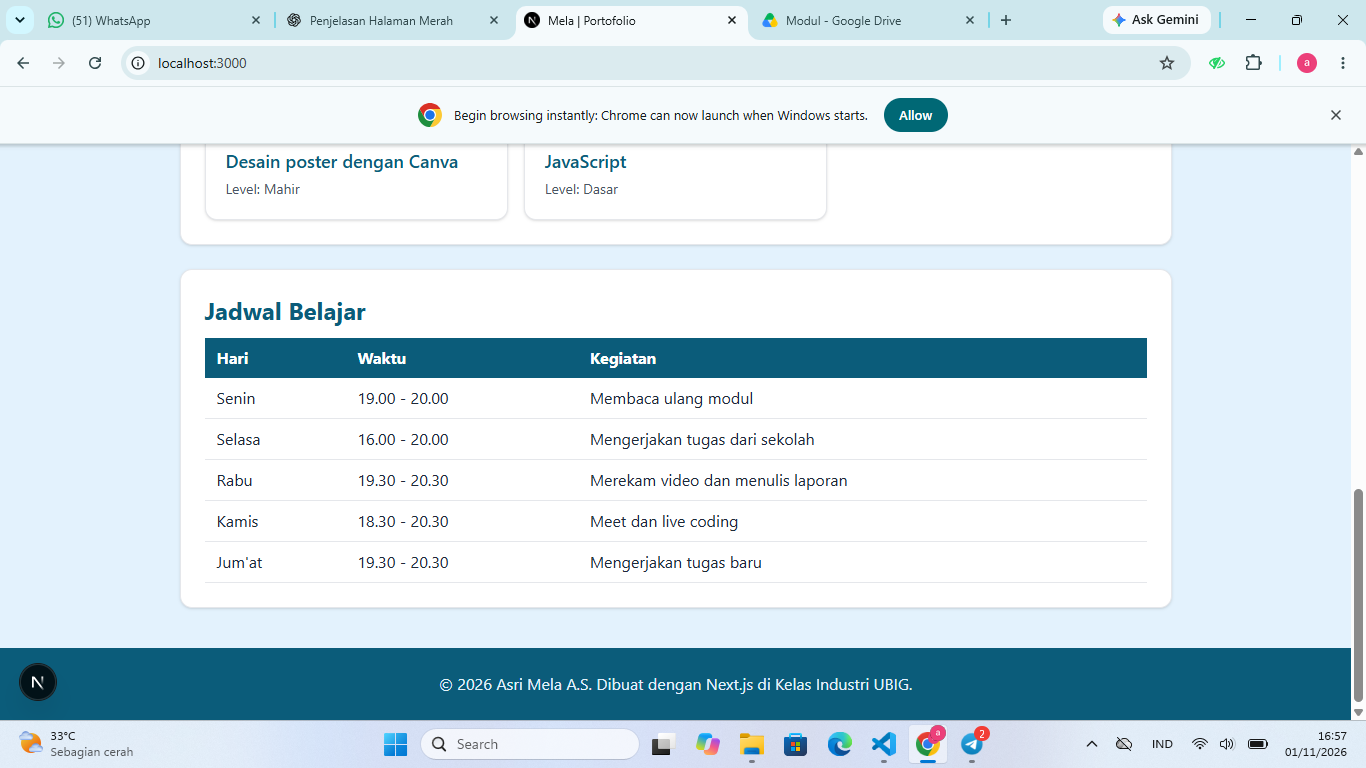
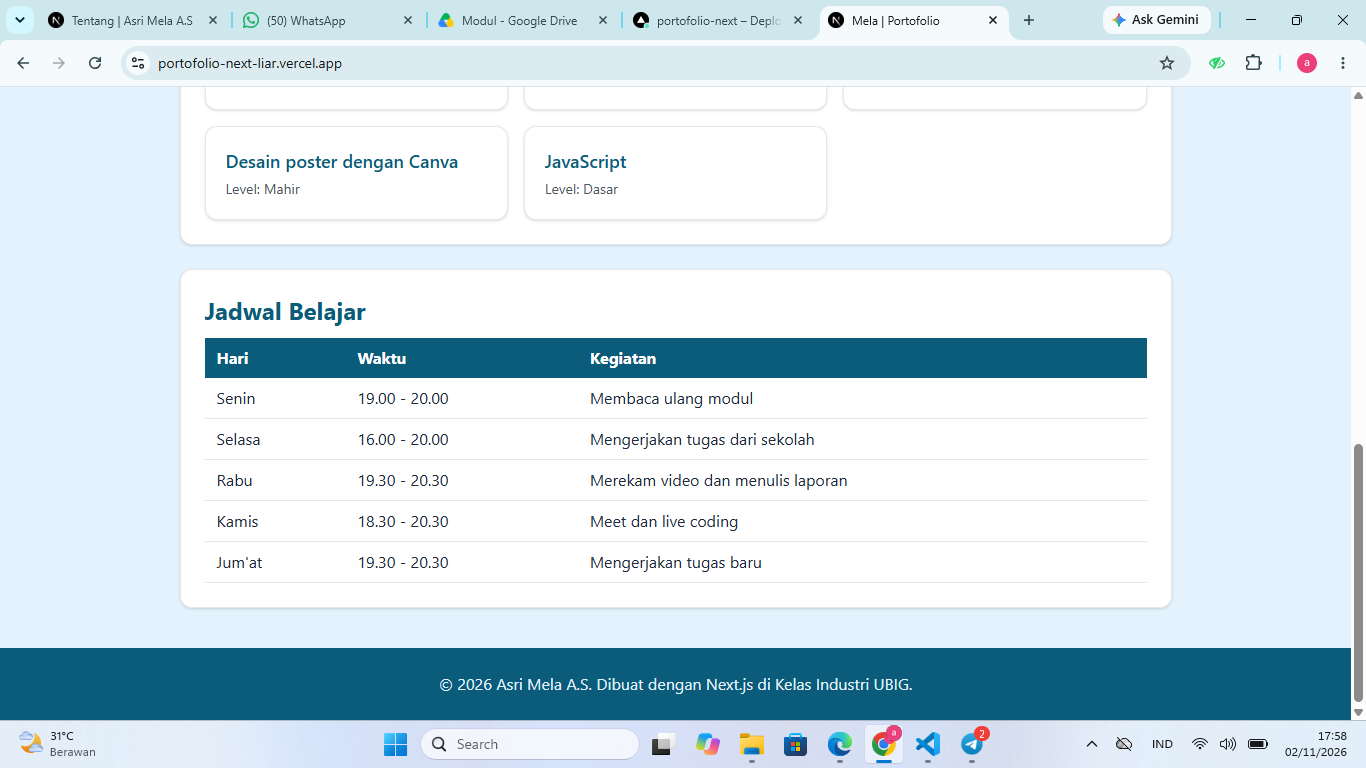
feat: lengkapi halaman tentang dan kontak serta menu aktif

diff --git a/src/app/kontak/page.js b/src/app/kontak/page.js
@@ -1,8 +1,133 @@
+export const metadata = {
+  title: "Kontak",
+  description:
+    "Hubungi Asri Mela Aldian Syah melalui form kontak, email, atau GitHub.",
+};
+
 export default function Kontak() {
-    return (
-        <main className="mx-auto max-w-5xl px-4 py-10">
-            <h1 className="text-3xl font-bold text-utama md:text-4xl">Hubungi Saya</h1>
-            <p className="mt-3 text-lg text-gray-700">Halaman ini akan berisi form kontak.</p>
-        </main>
-    );
+  return (
+    <main className="mx-auto max-w-5xl px-4 py-10">
+      <h1 className="text-3xl font-bold text-utama md:text-4xl">Hubungi Saya</h1>
+      <p className="mt-3 text-lg text-gray-700">
+        Punya pertanyaan atau ingin bekerja sama? Isi form berikut.
+      </p>
+
+      <div className="mt-8 grid gap-6 md:grid-cols-3">
+        <div className="rounded-xl border border-gray-200 bg-white p-6 shadow-sm md:col-span-2">
+          <form className="space-y-4">
+            <div>
+              <label htmlFor="nama" className="block font-semibold">
+                Nama lengkap
+              </label>
+              <input
+                type="text"
+                id="nama"
+                name="nama"
+                placeholder="Contoh: Budi Santoso"
+                required
+                className="mt-1 w-full rounded-lg border border-gray-300 bg-white p-2"
+              />
+            </div>
+
+            <div>
+              <label htmlFor="email" className="block font-semibold">
+                Email
+              </label>
+              <input
+                type="email"
+                id="email"
+                name="email"
+                placeholder="nama@gmail.com"
+                required
+                className="mt-1 w-full rounded-lg border border-gray-300 bg-white p-2"
+              />
+            </div>
+
+            <div>
+              <label htmlFor="hp" className="block font-semibold">
+                Nomor HP
+              </label>
+              <input
+                type="tel"
+                id="hp"
+                name="hp"
+                placeholder="081234567890"
+                className="mt-1 w-full rounded-lg border border-gray-300 bg-white p-2"
+              />
+            </div>
+
+            <div>
+              <label htmlFor="keperluan" className="block font-semibold">
+                Keperluan
+              </label>
+              <select
+                id="keperluan"
+                name="keperluan"
+                required
+                defaultValue=""
+                className="mt-1 w-full rounded-lg border border-gray-300 bg-white p-2"
+              >
+                <option value="" disabled>
+                  -- Pilih keperluan --
+                </option>
+                <option value="tanya">Bertanya</option>
+                <option value="kerjasama">Kerja sama</option>
+                <option value="lainnya">Lainnya</option>
+              </select>
+            </div>
+
+            <div>
+              <label htmlFor="pesan" className="block font-semibold">
+                Pesan
+              </label>
+              <textarea
+                id="pesan"
+                name="pesan"
+                rows={5}
+                maxLength={300}
+                placeholder="Tulis pesanmu di sini"
+                required
+                className="mt-1 w-full rounded-lg border border-gray-300 bg-white p-2"
+              />
+            </div>
+
+            <button
+              type="submit"
+              className="rounded-lg bg-aksen px-5 py-2 font-semibold text-white"
+            >
+              Kirim Pesan
+            </button>
+            <p className="text-sm text-gray-600">
+              Form ini belum mengirim pesan. Pengiriman pesan diaktifkan di
+              Minggu 15.
+            </p>
+          </form>
+        </div>
+
+        <aside className="h-fit rounded-xl border border-gray-200 bg-white p-6 shadow-sm">
+          <h2 className="text-lg font-semibold text-utama">Temukan Saya di</h2>
+          <ul className="mt-3 space-y-2">
+            <li>
+              <a
+                href="https://github.com/asrimela14410-crypto"
+                target="_blank"
+                rel="noopener noreferrer"
+                className="text-aksen hover:underline"
+              >
+                GitHub
+              </a>
+            </li>
+            <li>
+              <a
+                href="mailto:emailkamu@example.com"
+                className="text-aksen hover:underline"
+              >
+                emailkamu@example.com
+              </a>
+            </li>
+          </ul>
+        </aside>
+      </div>
+    </main>
+  );
 }

diff --git a/src/app/page.js b/src/app/page.js
@@ -1,6 +1,8 @@
+import Link from "next/link";
 import Hero from "@/components/Hero";
+import ProyekCard from "@/components/ProyekCard";
 import SkillCard from "@/components/SkillCard";
-import Kartu from "@/components/Kartu";
+import { proyek } from "@/data/proyek";
 
 const skills = [
   { nama: "HTML", level: "Menengah" },
@@ -10,23 +12,7 @@ const skills = [
   { nama: "JavaScript", level: "Dasar" },
 ];
 
-const hobi = ["Belajar lebih baik", "Beli rumah banyak", "Menghabiskan uang"];
-
-const rencana = [
-  "Menuntaskan Kelas Industri UBIG sampai Semester 4",
-  "Umroh dan Haji bersama keluarga setiap minggu",
-  "Tidak kekurangan uang",
-  "Mendapatkan uang setiap detik.",
-];
-
-
-const jadwal = [
-  { hari: "Senin", waktu: "19.00 - 20.00", kegiatan: "Membaca ulang modul" },
-  { hari: "Selasa", waktu: "16.00 - 20.00", kegiatan: "Mengerjakan tugas dari sekolah" },
-  { hari: "Rabu", waktu: "19.30 - 20.30", kegiatan: "Merekam video dan menulis laporan" },
-  { hari: "Kamis", waktu: "18.30 - 20.30", kegiatan: "Meet dan live coding" },
-  { hari: "Jum'at", waktu: "19.30 - 20.30", kegiatan: "Mengerjakan tugas baru" },
-];
+const proyekTerbaru = proyek.slice(-3);
 
 export default function Home() {
   return (
@@ -36,68 +22,29 @@ export default function Home() {
         tagline="Siswa kelas XI SMKN, calon Junior Web Developer di Kelas Industri UBIG."
       />
 
-      <div className="mt-10 flex flex-col gap-6">
-        <Kartu judul="Tentang Saya">
-          <p className="font-semibold text-utama">
-            Berawal dari rasa ingin tahu, berkembang melalui kode, dan terus
-            berinovasi menciptakan solusi digital.
-          </p>
-          <p className="mt-3">
-            Saya Asri Mela Aldian Syah, siswa kelas XI SMKN yang sedang belajar
-            membuat website dengan HTML, CSS, JavaScript, dan Next.js di Kelas
-            Industri UBIG. Saya ingin terus berkembang menjadi Web Developer
-            yang bisa membuat karya bermanfaat.
-          </p>
-        </Kartu>
-
-        <div className="grid gap-6 md:grid-cols-2">
-          <Kartu judul="Hobi">
-            <ul className="list-disc pl-5">
-              {hobi.map((item) => (
-                <li key={item}>{item}</li>
-              ))}
-            </ul>
-          </Kartu>
-
-          <Kartu judul="Cita-cita">
-            
-            <ol className="mt-2 list-decimal pl-5">
-              {rencana.map((item) => (
-                <li key={item}>{item}</li>
-              ))}
-            </ol>
-          </Kartu>
+      <section className="mt-10">
+        <h2 className="mb-4 text-2xl font-bold text-utama">Keahlian</h2>
+        <div className="grid gap-4 md:grid-cols-3">
+          {skills.map((skill) => (
+            <SkillCard key={skill.nama} nama={skill.nama} level={skill.level} />
+          ))}
         </div>
+      </section>
 
-        <Kartu judul="Keahlian">
-          <div className="grid gap-4 md:grid-cols-3">
-            {skills.map((skill) => (
-              <SkillCard key={skill.nama} nama={skill.nama} level={skill.level} />
-            ))}
-          </div>
-        </Kartu>
-
-        <Kartu judul="Jadwal Belajar">
-          <table className="w-full text-left">
-            <thead className="bg-utama text-white">
-              <tr>
-                <th className="px-3 py-2">Hari</th>
-                <th className="px-3 py-2">Waktu</th>
-                <th className="px-3 py-2">Kegiatan</th>
-              </tr>
-            </thead>
-            <tbody>
-              {jadwal.map((j) => (
-                <tr key={j.hari} className="border-b border-gray-200">
-                  <td className="px-3 py-2">{j.hari}</td>
-                  <td className="px-3 py-2">{j.waktu}</td>
-                  <td className="px-3 py-2">{j.kegiatan}</td>
-                </tr>
-              ))}
-            </tbody>
-          </table>
-        </Kartu>
-      </div>
+      <section className="mt-10">
+        <h2 className="mb-4 text-2xl font-bold text-utama">Proyek Terbaru</h2>
+        <div className="grid gap-6 md:grid-cols-3">
+          {proyekTerbaru.map((item) => (
+            <ProyekCard key={item.slug} proyek={item} />
+          ))}
+        </div>
+        <Link
+          href="/proyek"
+          className="mt-6 inline-block rounded-lg bg-utama px-5 py-2 font-semibold text-white"
+        >
+          Lihat semua proyek
+        </Link>
+      </section>
     </main>
   );
 }

diff --git a/src/app/tentang/page.js b/src/app/tentang/page.js
@@ -1,8 +1,85 @@
+import Kartu from "@/components/Kartu";
+
+export const metadata = {
+  title: "Tentang",
+  description: "Cerita, hobi, cita-cita, dan jadwal belajar Asri Mela Aldian Syah.",
+};
+
+const hobi = ["Belajar lebih baik", "Beli rumah banyak", "Menghabiskan uang"];
+
+const rencana = [
+  "Menuntaskan Kelas Industri UBIG sampai Semester 4",
+  "Umroh dan Haji bersama keluarga setiap minggu",
+  "Tidak kekurangan uang",
+  "Mendapatkan uang setiap detik.",
+];
+
+const jadwal = [
+  { hari: "Senin", waktu: "19.00 - 20.00", kegiatan: "Membaca ulang modul" },
+  { hari: "Selasa", waktu: "16.00 - 20.00", kegiatan: "Mengerjakan tugas dari sekolah" },
+  { hari: "Rabu", waktu: "19.30 - 20.30", kegiatan: "Merekam video dan menulis laporan" },
+  { hari: "Kamis", waktu: "18.30 - 20.30", kegiatan: "Meet dan live coding" },
+  { hari: "Jum'at", waktu: "19.30 - 20.30", kegiatan: "Mengerjakan tugas baru" },
+];
+
 export default function Tentang() {
-    return (
-        <main className="mx-auto max-w-5xl px-4 py-10">
-            <h1 className="text-3xl font-bold text-utama md:text-4xl">Tentang saya</h1>
-            <p className="mt-3 text-lg text-gray-700">Halaman ini akan berisi cerita, hobi, dan cita-cita saya.</p>
-        </main>
-    );
+  return (
+    <main className="mx-auto max-w-5xl px-4 py-10">
+      <h1 className="text-3xl font-bold text-utama md:text-4xl">Tentang Saya</h1>
+
+      <div className="mt-8 flex flex-col gap-6">
+        <Kartu judul="Perkenalan">
+          <p className="font-semibold text-utama">
+            Berawal dari rasa ingin tahu, berkembang melalui kode, dan terus
+            berinovasi menciptakan solusi digital.
+          </p>
+          <p className="mt-3">
+            Saya Asri Mela Aldian Syah, siswa kelas XI SMKN yang sedang belajar
+            membuat website dengan HTML, CSS, JavaScript, dan Next.js di Kelas
+            Industri UBIG. Saya ingin terus berkembang menjadi Web Developer
+            yang bisa membuat karya bermanfaat.
+          </p>
+        </Kartu>
+
+        <div className="grid gap-6 md:grid-cols-2">
+          <Kartu judul="Hobi">
+            <ul className="list-disc pl-5">
+              {hobi.map((item) => (
+                <li key={item}>{item}</li>
+              ))}
+            </ul>
+          </Kartu>
+
+          <Kartu judul="Cita-cita">
+            <ol className="mt-2 list-decimal pl-5">
+              {rencana.map((item) => (
+                <li key={item}>{item}</li>
+              ))}
+            </ol>
+          </Kartu>
+        </div>
+
+        <Kartu judul="Jadwal Belajar">
+          <table className="w-full text-left">
+            <thead className="bg-utama text-white">
+              <tr>
+                <th className="px-3 py-2">Hari</th>
+                <th className="px-3 py-2">Waktu</th>
+                <th className="px-3 py-2">Kegiatan</th>
+              </tr>
+            </thead>
+            <tbody>
+              {jadwal.map((j) => (
+                <tr key={j.hari} className="border-b border-gray-200">
+                  <td className="px-3 py-2">{j.hari}</td>
+                  <td className="px-3 py-2">{j.waktu}</td>
+                  <td className="px-3 py-2">{j.kegiatan}</td>
+                </tr>
+              ))}
+            </tbody>
+          </table>
+        </Kartu>
+      </div>
+    </main>
+  );
 }

diff --git a/src/components/Navbar.jsx b/src/components/Navbar.jsx
@@ -24,9 +24,13 @@ export default function Navbar() {
           {menu.map((item) => {
             let kelas = "text-gray-200 hover:text-white";
 
-            if (pathname === item.href) {
-              kelas =
-                "font-bold text-white underline underline-offset-8";
+            let aktif = pathname.startsWith(item.href);
+            if (item.href === "/") {
+              aktif = pathname === "/";
+            }
+
+            if (aktif) {
+              kelas = "font-bold text-white underline underline-offset-8";
             }
 
             return (
